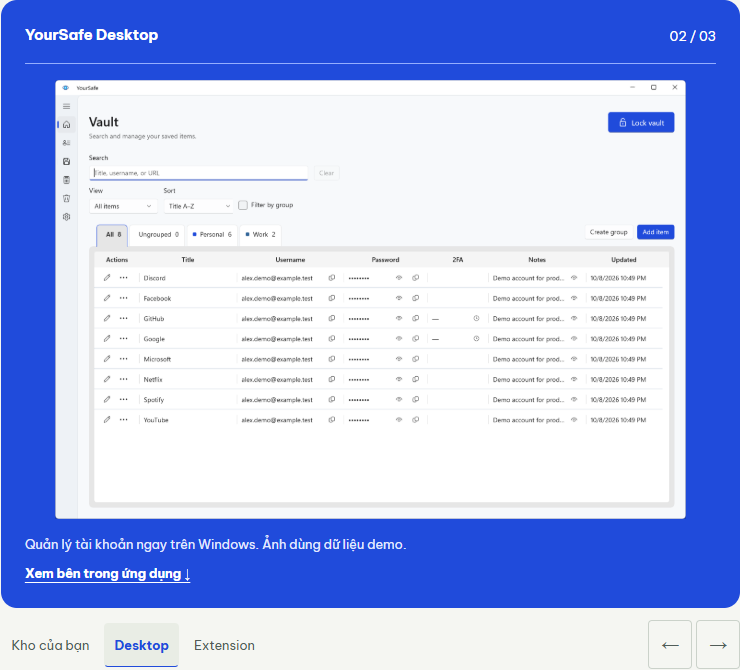
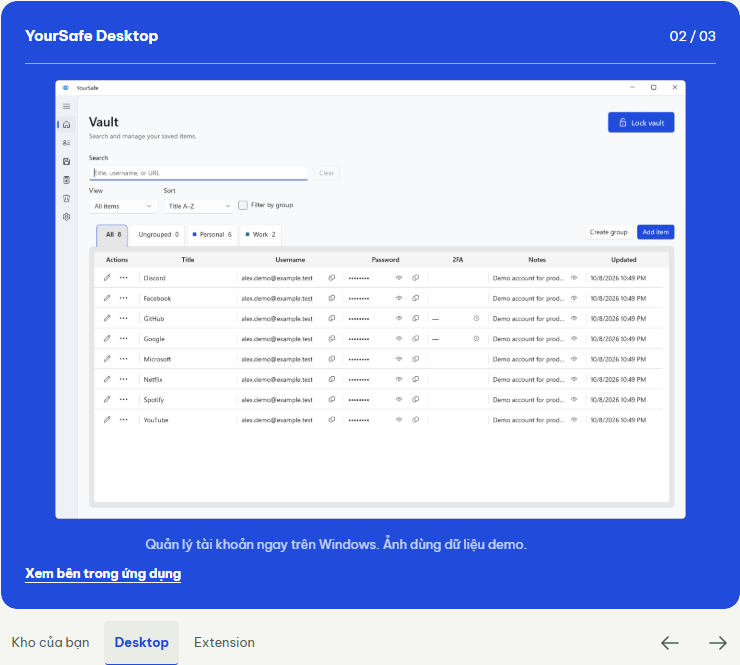
Fix responsive navigation and footer layout

diff --git a/website/home.html b/website/home.html
@@ -6,7 +6,7 @@
     <meta name="description"
       content="Lưu mật khẩu, mã xác thực và mã khôi phục ngay trên máy Windows với YourSafe. Dùng được khi không có internet.">
     <meta name="theme-color" content="#204bdb">
-    <title>YourSafe — Mật khẩu ở lại trên máy bạn.</title>
+    <title>YourSafe - Keep your passwords safe.</title>
     <link rel="icon" href="./assets/app-logo.png" type="image/png"
       sizes="88x88">
     <link rel="preload" href="./assets/BeVietnamPro-Bold.ttf" as="font"
@@ -58,7 +58,8 @@
                   href="https://github.com/Lmnhutw/PasswordTool.Core/releases">Tải
                   cho Windows <svg viewBox="0 0 24 24" aria-hidden="true"><path
                       d="M12 3v12m-5-5 5 5 5-5M5 16v5h14v-5" /></svg></a>
-                <a class="text-link download-extension" href="#extension">Khám phá tiện ích
+                <a class="text-link download-extension" href="#extension">Khám
+                  phá tiện ích
                   <span aria-hidden="true">↗</span></a>
               </div>
               <p class="download-note">Windows 64-bit · Dùng được khi không có
@@ -98,7 +99,7 @@
                     <span>Dữ liệu được lưu<br>trên máy của bạn.</span>
                     <p class="manual-demo">Minh họa điền tài khoản trên trang
                       đăng nhập thử. Popup dùng dữ liệu mô phỏng. <a
-                        href="./demo-login">Thử ngay →</a></p>
+                        href="./demo-login">Thử ngay</a></p>
                   </div>
                 </article>
 
@@ -115,7 +116,7 @@
                   <div class="showcase-footer"><p>Quản lý tài khoản ngay trên
                       Windows. Ảnh dùng dữ liệu demo.</p><a
                       class="showcase-link" href="#features">Xem bên trong ứng
-                      dụng ↓</a></div>
+                      dụng</a></div>
                 </article>
                 <article class="showcase-slide showcase-extension"
                   id="showcase-extension"
@@ -129,7 +130,7 @@
                       width="720" height="1150"></div>
                   <div class="showcase-footer"><p>Chọn tài khoản để điền vào
                       trang đăng nhập.</p><a class="showcase-link"
-                      href="#extension">Khám phá tiện ích ↓</a></div>
+                      href="#extension">Khám phá tiện ích</a></div>
                 </article>
               </div>
               <div class="showcase-controls" hidden>
@@ -235,10 +236,12 @@
                 trình duyệt trong Cài đặt của YourSafe trên Windows.</p>
               <p class="extension-note">Dùng trên Chrome, Edge và Brave.</p>
               <div class="extension-actions">
-                <a class="button button-primary" href="#extension-help">Xem cách dùng tiện ích <svg
+                <a class="button button-primary" href="#extension-help">Xem cách
+                  dùng tiện ích <svg
                     viewBox="0 0 24 24" aria-hidden="true"><path
                       d="M4 12h16m-6-6 6 6-6 6" /></svg></a>
-                <a class="text-link" href="./demo-login">Thử trên trang đăng nhập mẫu
+                <a class="text-link" href="./demo-login">Thử trên trang đăng
+                  nhập mẫu
                   <span aria-hidden="true">↗</span></a>
               </div>
             </div>
@@ -248,7 +251,8 @@
                   alt="Hai tài khoản demo phù hợp với github.com, có nút Fill và View TOTP."
                   width="720" height="1150"
                   loading="lazy"><figcaption>*Chọn tài khoản để điền tên
-                  đăng nhập và mật khẩu.</figcaption></figure><figure class="app-figure"><img
+                  đăng nhập và mật khẩu.</figcaption></figure><figure
+                class="app-figure"><img
                   class="product-image"
                   src="./assets/homepage/extension-code.png"
                   alt="Tiện ích hiển thị mã xác thực demo 123 456, bộ đếm thời gian và nút Copy."
@@ -418,7 +422,8 @@
               nên
               hãy sao lưu thường xuyên và cất bản sao trên thiết bị
               khác.</p></details>
-          <details id="extension-help"><summary>Có cần cài tiện ích trình duyệt để dùng YourSafe
+          <details id="extension-help"><summary>Có cần cài tiện ích trình duyệt
+              để dùng YourSafe
               không?</summary><p>Không. Bạn có thể lưu, tìm, xem và sao chép
               thông tin ngay trong ứng dụng Windows. Tiện ích là tùy chọn để
               điền tài khoản trên Chrome, Edge hoặc Brave.</p><p>Để dùng tiện
@@ -431,12 +436,14 @@
                 duyệt</a>.</p></details>
           <details><summary>Vì sao tiện ích không thấy tài khoản hoặc không
               điền
-              được?</summary><p>Kiểm tra ứng dụng YourSafe trên Windows đang chạy, kho đã mở
+              được?</summary><p>Kiểm tra ứng dụng YourSafe trên Windows đang
+              chạy, kho đã mở
               khóa và kết nối trình duyệt đã bật. Tài khoản cần có địa chỉ
               HTTPS
               của đúng website đang mở; tài khoản không có địa chỉ website sẽ
               không hiện trong tiện ích.</p><p>Sau đó mở lại hoặc làm mới tiện
-              ích, chọn tài khoản và xác nhận yêu cầu trong ứng dụng Windows. Tiện ích
+              ích, chọn tài khoản và xác nhận yêu cầu trong ứng dụng Windows.
+              Tiện ích
               chỉ
               điền thông tin, bạn tự bấm Đăng nhập.</p></details>
           <details><summary>Nhập mật khẩu từ trình duyệt hoặc ứng dụng khác
@@ -483,16 +490,19 @@
                 href="https://github.com/Lmnhutw/PasswordTool.Core/releases">Tải
                 cho Windows <svg viewBox="0 0 24 24" aria-hidden="true"><path
                     d="M4 12h16m-6-6 6 6-6 6" /></svg></a>
-              <a class="text-link download-extension" href="#extension">Khám phá tiện ích
+              <a class="text-link download-extension" href="#extension">Khám phá
+                tiện ích
                 <span aria-hidden="true">↗</span></a></div><p>Tải YourSafe và
               bắt
               đầu lưu mật khẩu trên Windows. Xem hướng dẫn cài đặt ở trên.</p>
             <div class="closing-demo">
               <h3>Đã cài YourSafe?</h3>
-              <p>Dùng tiện ích trình duyệt để điền thông tin đăng nhập từ kho của bạn.</p>
+              <p>Dùng tiện ích trình duyệt để điền thông tin đăng nhập từ kho
+                lưu trữ
+                của bạn.</p>
               <div class="closing-extension-actions">
                 <a class="text-link" href="#extension">Khám phá tiện ích <span
-                    aria-hidden="true">→</span></a>
+                    aria-hidden="true">↗</span></a>
                 <a class="text-link" href="./demo-login">Thử Demo <span
                     aria-hidden="true">↗</span></a>
               </div>

diff --git a/website/styles.css b/website/styles.css
@@ -642,7 +642,7 @@ code {
   grid-template-columns: 1.1fr 1fr;
   gap: clamp(2rem, 7vw, 2rem);
   align-items: end;
-  margin-bottom: 3rem;
+  margin-bottom: 1.5rem;
 }
 
 .section-heading p {
@@ -708,7 +708,7 @@ code {
   font-weight: 700;
   letter-spacing: 0.1em;
   color: var(--accent);
-  margin-bottom: 0.7rem;
+  margin-bottom: 1.5rem;
 }
 
 .tool-list {
@@ -1751,6 +1751,19 @@ details p {
     display: none;
   }
 
+  .has-js .site-nav.is-open {
+    position: absolute;
+    top: 100%;
+    left: 0;
+    display: grid;
+    grid-template-columns: repeat(2, minmax(0, 1fr));
+    gap: 0.25rem 1rem;
+    padding: 0.75rem var(--gutter);
+    background: var(--paper);
+    border-top: 1px solid var(--rule);
+    box-shadow: 0 8px 16px #1823211a;
+  }
+
   .has-js .menu-toggle[hidden] {
     display: block !important;
   }
@@ -2150,6 +2163,7 @@ details p {
   }
 
   .footer-copyright {
+    order: 1;
     text-align: left;
     padding-top: 0;
   }
